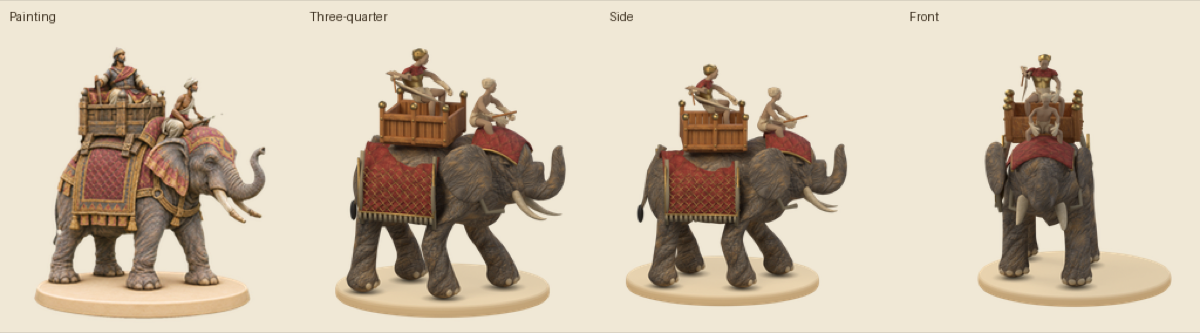
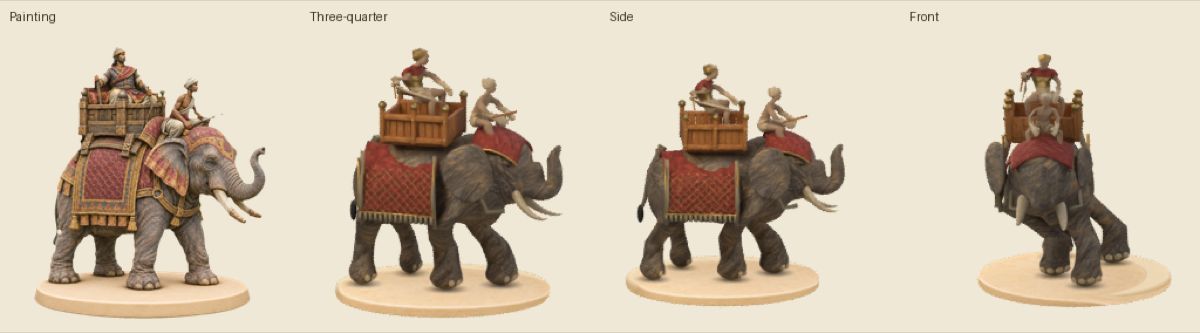
3D spearman interim review images

diff --git a/tools/art/anim3d/review/war-elephant-log.md b/tools/art/anim3d/review/war-elephant-log.md
@@ -61,3 +61,5 @@
 - Opened GPU c/rest/split/crossfade, all five e strips, native64 comparison and round2 movie frame before changes. GPU log completed:185694 bytes,quality75,all40 frames and verified MP4. Preserved GPU master/clips/renders/512/256 and review evidence under driver-r2-gpu-preserved.
 - Honest critique:256px retains convincing painted wood/textile/skin but officer near arm sticks sideways instead of descending to the rail; lower front stance is too wide, trunk is too upright, and stone is smooth and flat. Move has restrained weight transfer; death exposes stretched paint and rigid rider/kit attachments.64px reads as same elephant but foot/trunk silhouette still differs. No PASS.
 - Read all playbook chapters, all shared feedback and entire prior log; unit-specific feedback absent. Loaded all six Sam Blender skills: modeling/cameras for full-depth limb and trunk registration; materials/lighting for generated stone pigment and contact shading; animation for rest-safe source-driven clips; rendering for sequential CPU checks and GPU handoff.
+- Generated and pinned a clean stone plate using built-in imagegen; exact prompt saved. Initial CPU preview exposed transparent-edge black pigment; corrected alpha color blending. Ground-plane sole translations retain contact and avoid undoing screen registration; fitted knees, narrowed rear calves, softened trunk S and lowered officer grip.
+- Reused existing pinned CC0 Universal Animation Library via inspected cataphract helper for seated torso/head motion. Reference/rest/roll compensation, sparse-channel reset and exact loop closure; source Sitting_Idle_Loop/Hit_Chest/Death01, limbs remain constrained. Expanded rig audit now checks loop closure and held death across elephant and both riders.

diff --git a/tools/art/anim3d/review/archer-log.md b/tools/art/anim3d/review/archer-log.md
@@ -274,3 +274,5 @@
 - Published e-hit native 256/64 comparison; render device GPU.
 - Rendered e-death: 512px CYCLES GPU, 64 samples.
 - Published e-death native 256/64 comparison; render device GPU.
+- Rendered g-feet-check: 512px CYCLES GPU, 64 samples.
+- Published g-feet-check native 256/64 comparison; render device GPU.
